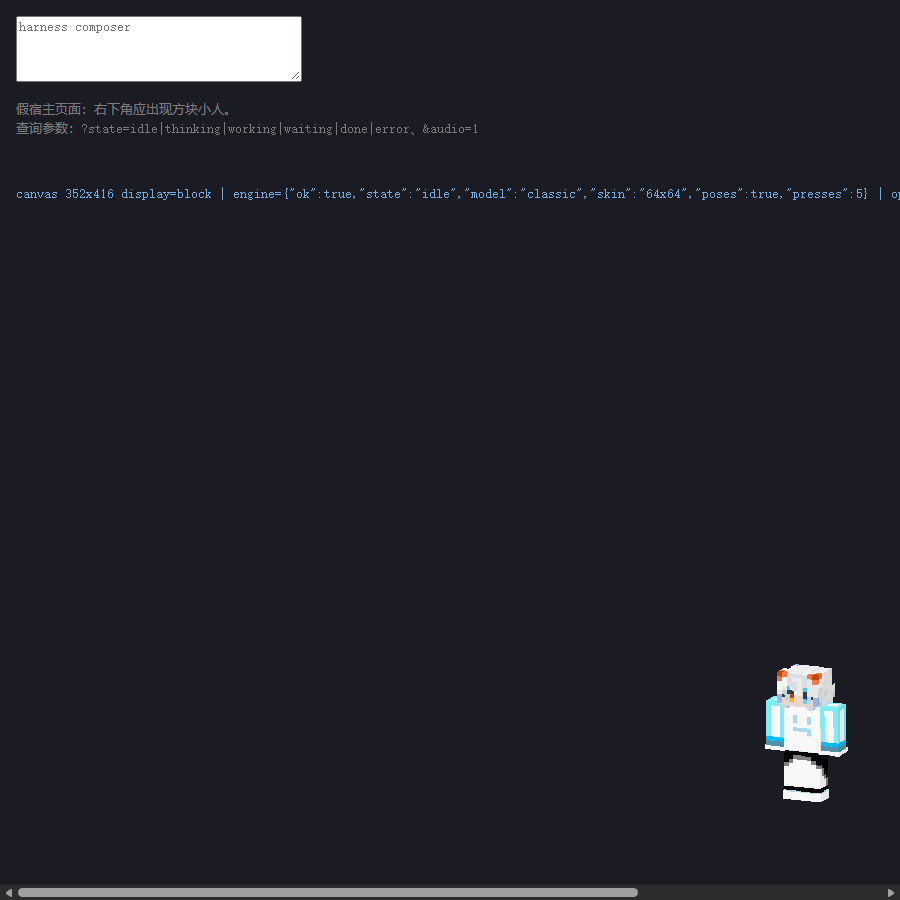
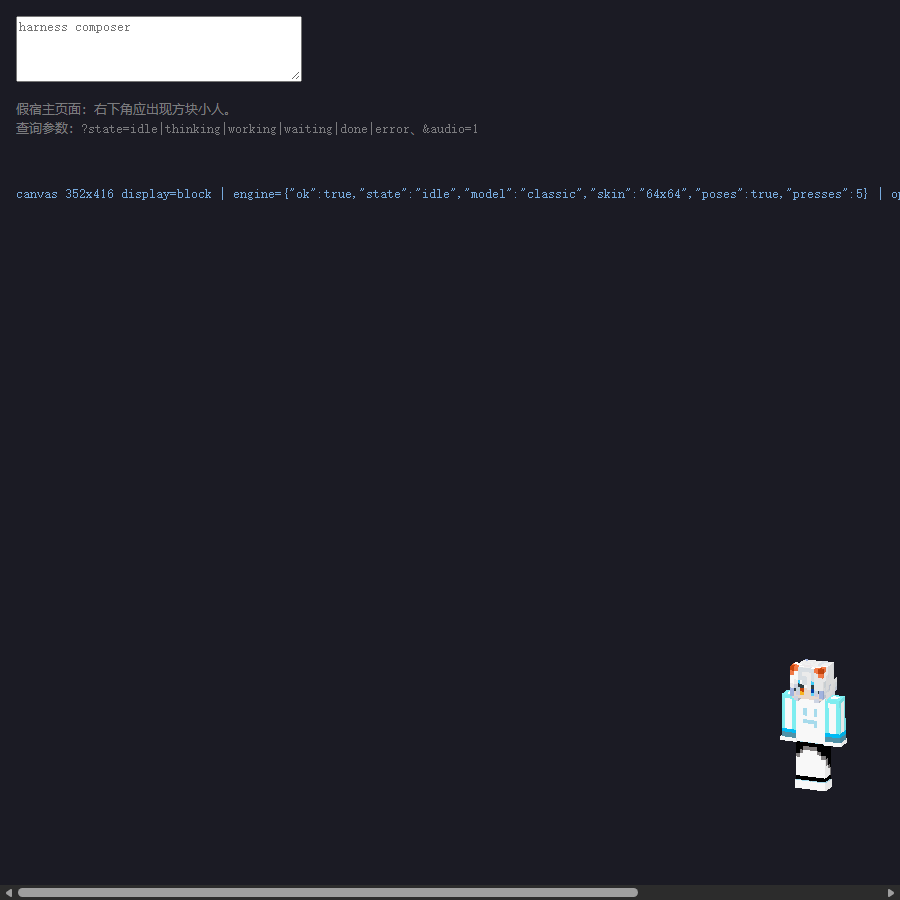
fix(m4): 只放大方块人，挂件容器恢复原尺寸（余额气泡不再跟着变大）
上一版把 --dshw-base 放大到 160~900，但气泡/菜单是容器级的（.dshwv-pop
width:100%），容器一变它们就一起变大，用户实测「余额气泡太大」。

- 容器回退到 DWS 原值 clamp(122px, min(250px, min(vw,vh)*0.28)*scale, 625px)
- .dshwv-canvas 单独放大：height 59.45% → 82%
- 顺带修掉一个老问题：canvas 原先 width/height 都是 59.45%，把 352×416 的内容
  塞进 1:1 盒子，方块人被横向拉宽约 18%；改用 aspect-ratio:352/416 保住比例

效果（900px 视口）：气泡/菜单回到改动前大小，方块人 ~148px → ~205px 高且比例正确。

HANDOFF §3 保留被取代的原条目并追加新条目，§5 补验证。

Changed region(s): [[0.84, 0.7156, 0.9644, 0.9022]]

diff --git a/assets/whale-widget.js b/assets/whale-widget.js
@@ -2784,7 +2784,7 @@ function frameSvgClean(code) {
 }
 
 var css = [
-  '.dshwv-root{position:fixed;right:0;bottom:0;--dshw-scale:1;--dshw-base:clamp(160px,calc(min(360px,min(100vw,100vh) * 0.40) * var(--dshw-scale)),900px);width:var(--dshw-base);height:var(--dshw-base);pointer-events:none;user-select:none;-webkit-user-select:none;z-index:9999;font-family:inherit;transition:left .16s ease,top .16s ease}',
+  '.dshwv-root{position:fixed;right:0;bottom:0;--dshw-scale:1;--dshw-base:clamp(122px,calc(min(250px,min(100vw,100vh) * 0.28) * var(--dshw-scale)),625px);width:var(--dshw-base);height:var(--dshw-base);pointer-events:none;user-select:none;-webkit-user-select:none;z-index:9999;font-family:inherit;transition:left .16s ease,top .16s ease}',
   // v634 移动端:去掉浏览器「点击高亮」方块——它画在可点元素的矩形包围盒上,
   // 泡泡的内联 SVG 形状尤其明显;同时禁掉 iOS 长按系统菜单/放大镜。
   // 只作用于挂件自身的 dshwv- 元素(该属性可继承,后代一并覆盖),不影响 DSH 页面自身的高亮。
@@ -2799,9 +2799,11 @@ var css = [
   '.dshwv-img{position:absolute;right:0;bottom:0;width:59.45%;height:59.45%;display:block;pointer-events:auto;-webkit-user-drag:none;user-select:none;object-fit:contain;object-position:right bottom}',
   // 手动翻转：只镜像角色图，菜单/泡泡/文字保持正向；不动 root、不参与自动判定
   '.dshwv-root.dshwv-flip .dshwv-img{transform:scaleX(-1);transform-origin:50% 50%}',
-  // skin 后端（M4）：与 .dshwv-img 同尺寸同锚点，画布 1:1 用 pixelated 上屏。
-  // 显示/隐藏由 JS 的 inline style 控制（两后端各建一个元素，按 kind 切，不动态增删）。
-  '.dshwv-canvas{position:absolute;right:0;bottom:0;width:59.45%;height:59.45%;display:none;pointer-events:auto;-webkit-user-drag:none;user-select:none;image-rendering:pixelated}',
+  // skin 后端（M4）：锚右下、与 .dshwv-img 同锚点，但**尺寸独立**——
+  // 气泡/菜单是容器级的（width:100%），把容器放大它们会一起变大（用户实测反馈
+  // 「余额气泡太大」）。所以容器恢复 DWS 原尺寸，只把方块人放大。
+  // height 用百分比 + aspect-ratio 保住 352:416，避免被容器压成 1:1（人物横向拉宽）。
+  '.dshwv-canvas{position:absolute;right:0;bottom:0;height:82%;width:auto;aspect-ratio:352 / 416;max-width:none;display:none;pointer-events:auto;-webkit-user-drag:none;user-select:none;image-rendering:pixelated}',
   '.dshwv-root.dshwv-flip .dshwv-canvas{transform:scaleX(-1);transform-origin:50% 50%}',
   // v751（PR #119）：光标不再写 document.body.style.cursor —— cursor 是可继承属性，写 <body> 会让 Blink
   // 失效**整棵文档树**的样式；而它在点击链路上按下/抬手各写一次，紧接着 isWhaleHit() 的
